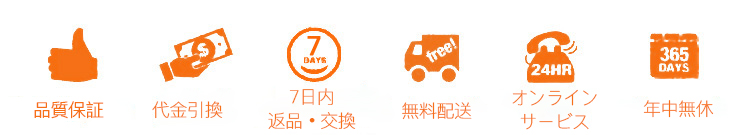
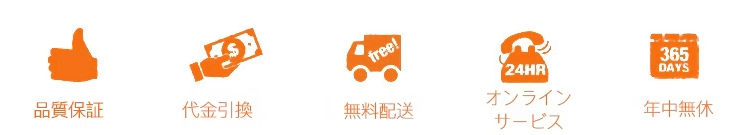
1

diff --git a/resources/views/home/RiBen/riben.blade.php b/resources/views/home/RiBen/riben.blade.php
@@ -176,7 +176,7 @@
         <span class="flag" style="font-size: 12px;">代金引換</span>
     @endif
     @if(in_array('seven_days',$templets))
-        <span class="flag" style="font-size: 12px;background:#000;">7日内返品・交換可</span>
+        <!-- <span class="flag" style="font-size: 12px;background:#000;">7日内返品・交換可</span> -->
     @endif
 </div>
 @endif
@@ -227,7 +227,7 @@
     @if(in_array('evaluate',$templets))
     <li>
         <span href="#detial-appraise" class="scrollBar" scroll-y="85">
-        カスタマーレビュー({{$goods->goods_comment_num}}+)
+            レビュー({{$goods->goods_comment_num}})
         </span>
     </li>
     @endif
@@ -312,44 +312,28 @@
         <tr class="first odd">
             <td colspan="2">
                 <p>
-１、お客様の理由の場合：お届け日より７日以内に、なお再び販売に支障がない場合、当社のアフターサービスにメール（<a  href="mailto:esdkhjies@gmail.com" style="color:#F8770E">esdkhjies@gmail.com</a>）をください、こちらは1～3日間営業日の内に、お申し込みをお受け付します。なお、往復の配送料金はお客様負担とさせていただきます。<br>
-２、品質に問題がある場合：お届け日より７日以内に、なお再び販売に支障がない場合、当社のアフターサービスにメール(<a  href="mailto:esdkhjies@gmail.com" style="color:#F8770E">esdkhjies@gmail.com</a>)をください、こちらは1～3日間営業日の内に、お申し込みをお受け付します。この場合、当社が返品の配送料金はを負担します。
-
+１.お客様の理由の場合：お届け日より７日以内に、なお再び販売に支障がない場合、当社のアフターサービスにメール（<a  href="mailto:esdkhjies@gmail.com" style="color:#F8770E">esdkhjies@gmail.com</a>）をください、こちらは1～3日間営業日の内に、お申し込みをお受け付します。なお、往復の配送料金はお客様負担とさせていただきます。<br>
+２.品質に問題がある場合：お届け日より７日以内に、なお再び販売に支障がない場合、当社のアフターサービスにメール(<a  href="mailto:esdkhjies@gmail.com" style="color:#F8770E">esdkhjies@gmail.com</a>)をください、こちらは1～3日間営業日の内に、お申し込みをお受け付します。この場合、当社が返品の配送料金はを負担します。<br/>
+3.到着日確認ー返品申し込みー査定通るー返品を送るー倉庫返品到着確認ー返品・交換査定ー返金/交換<br/>
+4.返品・交換記入事項：オーダーナンバー、名前、電話番号
             </td></tr>
         @endif
         @if(in_array('apply_goods',$templets))
         <tr class="first odd">
-            <th colspan="2" style="background-color: #d2d2d2;text-align: left;">お知らせ</th>
+            <th colspan="2" style="background-color: #d2d2d2;text-align: left;">代金引換について</th>
         </tr>
         <tr class="first odd">
             <td colspan="2">
             <p>
                 <!-- 24H Online Customer Service: <a href="javascript:void(0);"><img src="https://d1lnephkr7mkjn.cloudfront.net/skin/image/service.png" style=" width:15px; height:auto;"></a>
                 <br>Email: -->
-                商品について、実際使用効果に個人差がありますが、全ての方に商品を喜んで頂けかねます。何かあれば、是非オンラインチャットまたはメール
-                                <a  href="mailto:esdkhjies@gmail.com" style="color:#F8770E">esdkhjies@gmail.com</a>
-                                でご連絡ください。尚、当社は最終的な解釈権を持っています。
+                1.誰が手数料負担する：お客様が代金引換手数料を負担する。<br/>
+                2.以下は詳細手数料：1万円以下、324円；3万円以下、432円；10万円以下、648円；10万円以上はカスタマーサービースにお問い合わせくだだい。<br/>
+                3.受け取る時、配送係に商品代、送料、代金引換を合わせて、支払ってください。
             </p>
-                <!-- <p>1.由於個人原因
-                    需自行承擔。</p>產生的退換貨：至收到商品之日起7天內，在不影響二次銷
-                    售的情況下請聯繫我們的在線客服或發郵件至
-                                        <a href="mailto:esdkhjies@gmail.com" style="color:#F8770E">esdkhjies@gmail.com</a>
-                                        ，售後
-
-                    客服會在收到消息後的1-3個工作日內受理您的請求，退換貨所產生的運費
-
-                <p>
-                    2.由於質量原因產生的退換貨：至收到商品之日起7天內，向售後服務中心
-
-                    發送郵件至
-                                        <a href="mailto:esdkhjies@gmail.com" style="color:#F8770E">esdkhjies@gmail.com</a>
-                                        ，客服會在收到郵件後的1-3個工作日內受
-
-                    理您的請求，退換貨所產生的運費由我方承擔。
-                </p> -->
             </td></tr>
         @endif
-        <tr class="first odd">
+        <!-- <tr class="first odd">
             <th colspan="2" style="background-color: #d2d2d2;text-align: left;">返品.交換の流れ</th>
         </tr>
         <tr class="first odd">
@@ -359,7 +343,7 @@
                 
             </td>
 
-        </tr>
+        </tr> -->
         <tr class="first odd">
             <td style="width: 30%;height: 80px;margin: 0px;padding: 0px;"> <p style=""><img src="/images/ydzs.png"></p></td>
             <td colspan="2">
